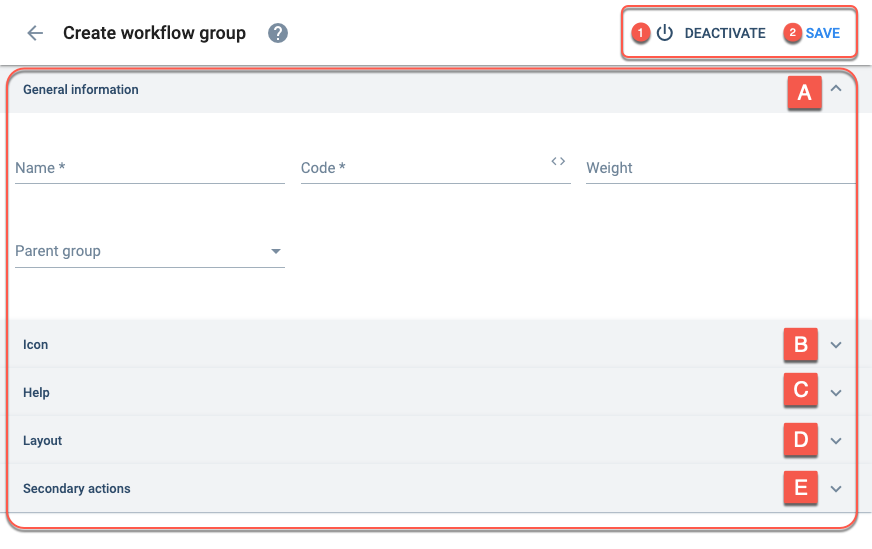
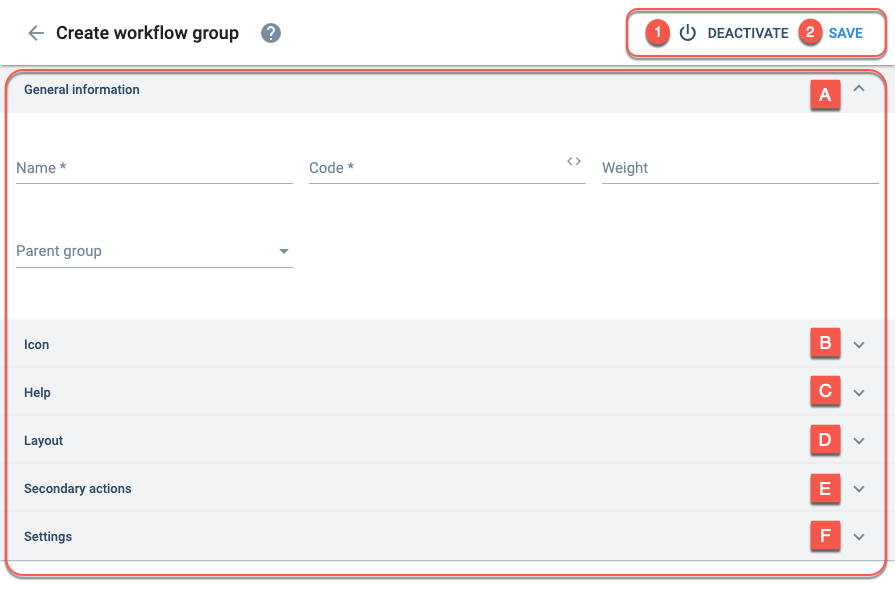
task view at starup + other fixes

diff --git a/docs/documentation/admin/workflows/settings_panels/workflowgroup_channels.md b/docs/documentation/admin/workflows/settings_panels/workflowgroup_channels.md
@@ -82,9 +82,9 @@ _Settings:_
 
 | Item | Description | Note |
 |----|----|----|
-| + Add Element | Lets you add an element to your channel. Some elements are automatically added in channels associated to a task. Add elements associated with a survey to make the survey available through the [actions button found in the channel's workspace](/docs/documentation/client/channels#task-menus-within-channel). | _After pressing the **+ Add Element** button, the collections and element fields will be displayed._ |
-| Collection |  | |
-| Elements |  |  |
+| + Add Element | Lets you add an element to your channel. Some elements are automatically added in channels associated with a task. Add elements associated with a survey to make the survey available through the [actions button found in the channel's workspace](/docs/documentation/client/channels#task-menus-within-channel). | _After pressing the **+ Add Element** button, the collections and element fields will be displayed._ |
+| Collection | Indicates which [collections](/docs/documentation/admin/admin_properties#collection) (property types) are associated with the channel. Used for classifying channels or making surveys availible, among others. | When a task is created through a survey form, collections corresponding to submitted answers are added automatically. |
+| Elements | Indicates the collection's [elements](/docs/documentation/admin/admin_properties#elements) (properties) which have been chosen for the channel. Used for classifying channels or making surveys availible, among others. | When a task is created through a survey form, elements corresponding to submitted answers are added automatically.  |
 
 </div>
 <br/>
@@ -98,9 +98,9 @@ _Settings:_
 
 | Item | Description | Note |
 |----|----|----|
-| Permissions for sending messages |  | |
-| First element overrides channel name |  |  |
-| Activate video call on this channel |  |  |
+| Permissions for sending messages | Indicates if users can write messages in the channel. | Options are `all` or `none`. |
+| First element overrides channel name | Indicates if the display name is overridden by the channel's first elements | If off, the manually added display name is used, otherwise the display name is overriden. |
+| Activate video call on this channel | Enables users to start video calls within the channel | A small video icon will appear in the upper-right corner of the channel workspace if active. |
 
 </div>
 <br/>

diff --git a/blog/2021-10-03-taskview.md b/blog/2021-10-03-taskview.md
@@ -1,0 +1,40 @@
+---
+title: Task View at Startup
+description: Better visibility of your tasks means improved efficiency and increased productivity. Configure your settings so that when you open your workflow groups, you can get a glance at all of your tasks. Create custom filters and choose which task view suits you best – List, Kanban, Calendar, Table.
+image: img/updates/update_taskview_startup.png
+draft: false
+---
+
+import useBaseUrl from '@docusaurus/useBaseUrl'; 
+import Highlight from '@theme/Highlight';
+
+<div className="align-center">
+<div className="card">
+<div className="card__header">
+
+<span className="hero__subtitle"><em>
+
+Keep your team focused
+
+</em></span>
+
+</div>
+<div className="card__image">
+
+<img alt="fab" className="img_card" src={useBaseUrl('img/updates/update_taskview_startup.png')} />
+<br/>
+
+</div>
+<div className="card__body">
+
+▸▸▸ Better visibility of your _tasks_ means improved efficiency and increased productivity. Configure your settings so that when you open your _workflow groups_, you can get a glance at all of your _tasks_. Create custom filters and choose which _task view_ suits you best: _List_, _Kanban_, _Calendar_, _Table_.
+
+</div>
+<div className="card__footer text-center align-padding-center">
+
+<a className="button button--info button--block" href="/docs/documentation/admin/workflows/settings_panels/workflowgroup-create-edit#settings">See Documentation</a>
+<br/>
+
+</div>
+</div>
+</div>

diff --git a/docs/documentation/models/communication/model_channels.md b/docs/documentation/models/communication/model_channels.md
@@ -116,7 +116,7 @@ import TabItem from '@theme/TabItem';
 | modifiedAt | Indicates the last time channel settings were modified | ISODate | YYYY-MM-DDTHH:mm:ss.SSSZ |
 | nameCode | The channel's unique identification name | string | Must be unique, max. 60 chars., Valid chars. [a-z0-9_] |
 | nameDisplay | The channel name users will see in the platform | string | |
-| overrideName | Indicates is the display name is overridden by the channel's first elements | boolean | False indicates the name has been overridden; true indicates that the manually added display name is being used |
+| overrideName | Indicates if the display name is overridden by the channel's first elements | boolean | False indicates the name has been overridden; true indicates that the manually added display name is being used |
 | pinned | Indicates if the channel is pinned to the group panel | ObjectId | An empty array indicates the channel is not pinned |
 | propertyIds | An array of element/property IDs associated with the channel | ObjectId<COTProperty\>[ ] | [Element Data Property](/docs/documentation/models/databases/model_properties) |
 | search | Array of keywords for search engine | string[ ] | Automatically generated |

diff --git a/docs/documentation/admin/workflows/settings_panels/workflowgroup-create-edit.md b/docs/documentation/admin/workflows/settings_panels/workflowgroup-create-edit.md
@@ -41,6 +41,7 @@ _Settings_:
 - [**C. Help**](#help-section)
 - [**D. Layout**](#layout-section)
 - [**E. Secondary actions**](#secondary-actions-section)
+- [**F. Settings**](#settings)
 
 </div>
 <br/>
@@ -251,6 +252,35 @@ Pressing this button opens up a **New action** pad. Press the pad to open the ne
 </div>
 <br/>
 
+</div>
+<br/>
+
+<div className="alert alert--secondary">
+
+### F. Settings {#settings}
+_Set display settings._
+
+<img alt="settings" className="img_sizing item shadow--tl" src={useBaseUrl('img/admin_workflowgroup_create_06.png')} />
+<br/>
+
+<div className="container box">
+<div className="row table-row-2">
+<div className="col col--3"><b>Initial view:</b></div>
+<div className="col col--4">
+
+Set whether a _workflow group_ opens from the [group panel](/docs/documentation/client/groups#group-panel) in [task view](/docs/documentation/client/taskview#tasks-views) or it's [channel workspace](/docs/documentation/client/channels).
+
+</div>
+<div className="col col--5"><em>
+
+`Start with group view`: opens the workflow group's channel workspace.  
+`Start with task view`: opens the workflow group in task view.  
+
+</em></div>
+</div>
+
+</div>
+<br/>
 
 </div>
 <br/>
